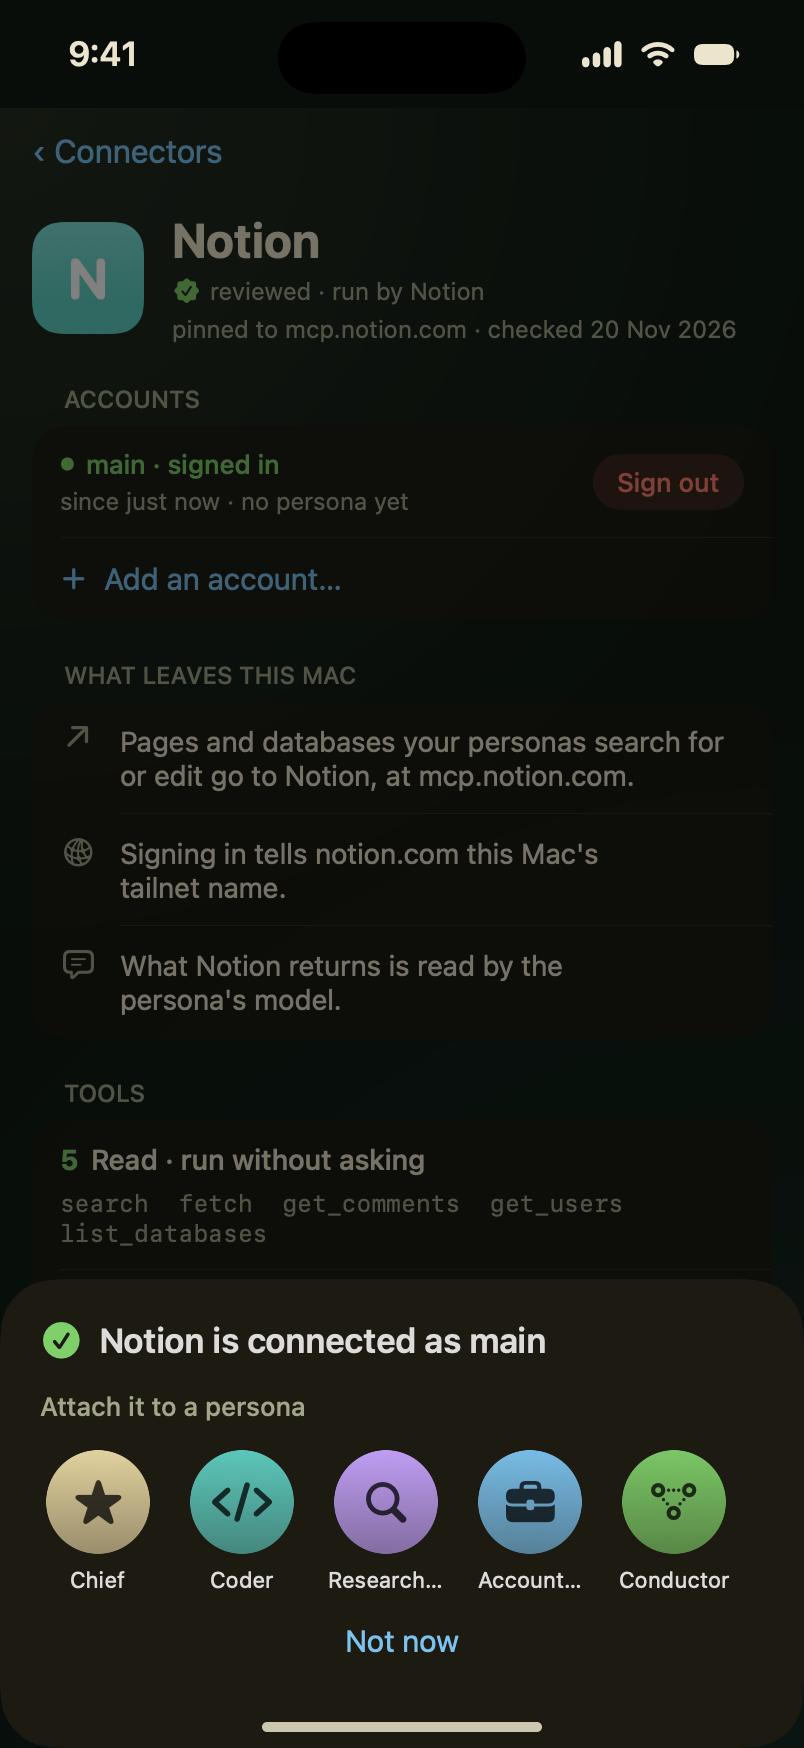
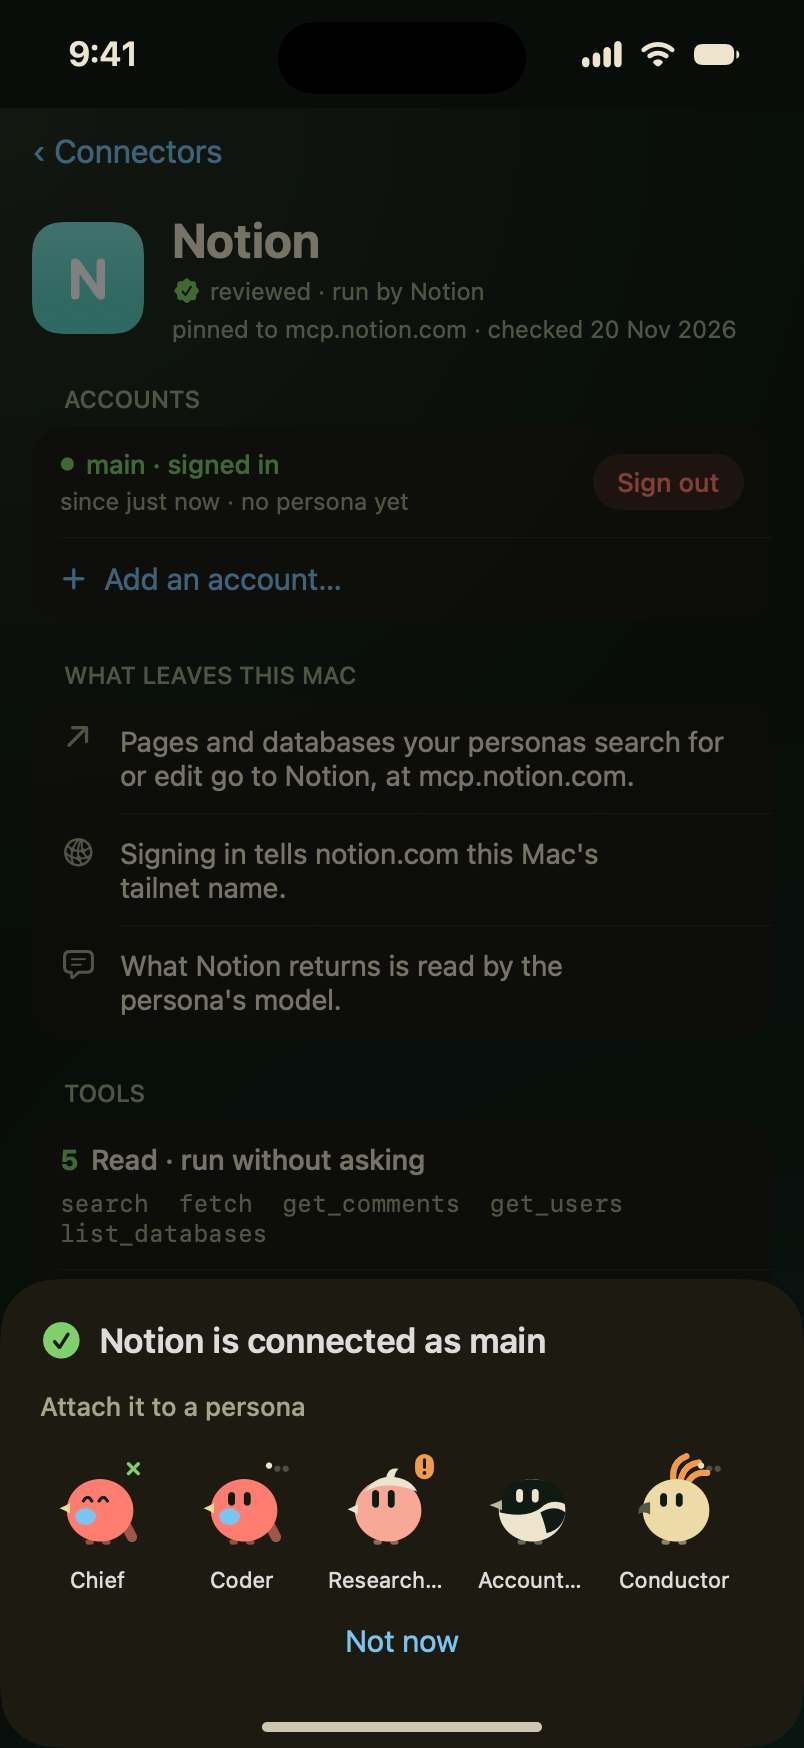
apple: #827 lint fixes (internal doc lines, short names, eye tuple, one text paint) and the agent frames re-recorded with birds

diff --git a/apple/Sources/CooeeUI/BirdCast.swift b/apple/Sources/CooeeUI/BirdCast.swift
@@ -2,10 +2,9 @@ import CooeeCore
 import SwiftUI
 
 extension Bird {
-    private static let pink = Paint.mix(.red, .fg, 0.58)
+    private static let pink = Paint.mix(.red, .paper, 0.58)
     private static let grey = Paint.mix(.mute, .amber, 0.82)
 
-    /// Modern's cast, ported from apple/design/agent-birds/cast.js.
     internal static func of(_ mascot: Mascot) -> Bird { cast[Mascot.allCases.firstIndex(of: mascot) ?? 0] }
 
     private static let cast = [kookaburra, galah, rosella, magpie, fairyWren, cockatoo, lorikeet, frogmouth]
@@ -14,34 +13,35 @@ extension Bird {
         paint: .amber,
         parts: Part.feet(.amber) + [
             .body(.amber), .oval(50, 71, 20, 14, .lead),
-            .shape("M22 48 Q28 26 52 27 Q78 28 84 48 Q70 39 52 39 Q34 39 22 48Z", Paint.amber.shade(0.5)),
-            .shape("M27 51 L2 57 Q14 58 27 56Z", Paint.amber.shade(0.3)),
-            .shape("M27 56 Q14 58 4 58 Q14 62 27 63Z", .lead),
+            .patch("M22 48 Q28 26 52 27 Q78 28 84 48 Q70 39 52 39 Q34 39 22 48Z", Paint.amber.shade(0.5)),
+            .patch("M27 51 L2 57 Q14 58 27 56Z", Paint.amber.shade(0.3)),
+            .patch("M27 56 Q14 58 4 58 Q14 62 27 63Z", .lead),
         ],
-        eyes: (40, 55, 48, 13, 6.6))
+        eyes: Eyes(40, 55, 48, 13, 6.6))
 
     private static let galah = Bird(
         paint: pink,
         parts: Part.feet(pink) + [
             .body(pink),
-            .shape("M30 40 Q40 24 58 26 Q74 28 80 40 Q66 34 52 34 Q40 34 30 40Z", Paint.fg.tint(0.75), edge: true),
-            .shape("M50 27 Q52 16 62 18 Q58 22 58 28Z", Paint.fg.tint(0.75)), .beak(Paint.fg.tint(0.8), 23, 57, 10, 5),
+            .patch("M30 40 Q40 24 58 26 Q74 28 80 40 Q66 34 52 34 Q40 34 30 40Z", Paint.paper.tint(0.75), edge: true),
+            .patch("M50 27 Q52 16 62 18 Q58 22 58 28Z", Paint.paper.tint(0.75)),
+            .beak(Paint.paper.tint(0.8), 23, 57, 10, 5),
         ],
-        eyes: (40, 55, 47, 13, 6.6))
+        eyes: Eyes(40, 55, 47, 13, 6.6))
 
     private static let rosella = Bird(
         paint: .red,
         parts: [.bar(CGRect(x: 72, y: 56, width: 10, height: 34), 5, Paint.red.shade(0.6), turn: -28)]
             + Part.feet(.red) + [.body(.red), .oval(38, 64, 10, 8, .link), .beak(.lead, 23, 56, 10, 5)],
-        eyes: (40, 55, 47, 13, 6.6))
+        eyes: Eyes(40, 55, 47, 13, 6.6))
 
     private static let magpie = Bird(
-        paint: .fg,
+        paint: .paper,
         parts: Part.feet(.mute) + [
-            .body(.fg), .shape("M21 60 Q18 30 50 28 Q80 28 84 52 Q70 46 60 56 Q46 66 21 60Z", .ink),
-            .shape("M60 60 Q74 52 84 60 Q82 76 66 80 Q64 70 60 60Z", .ink), .beak(Paint.mute.tint(0.7), 23, 53, 12, 5),
+            .body(.paper), .patch("M21 60 Q18 30 50 28 Q80 28 84 52 Q70 46 60 56 Q46 66 21 60Z", .ink),
+            .patch("M60 60 Q74 52 84 60 Q82 76 66 80 Q64 70 60 60Z", .ink), .beak(Paint.mute.tint(0.7), 23, 53, 12, 5),
         ],
-        eyes: (40, 55, 44, 13, 6.6), eye: .fg)
+        eyes: Eyes(40, 55, 44, 13, 6.6), eye: .paper)
 
     private static let fairyWren = Bird(
         paint: .link,
@@ -49,27 +49,27 @@ extension Bird {
             + Part.feet(.link, 88, 44, 58) + [
                 .body(.link, 52, 62, 28, 26), .oval(64, 52, 8, 7, Paint.link.tint(0.45)), .beak(.ink, 26, 58, 9, 4),
             ],
-        eyes: (41, 54, 52, 11, 6.6))
+        eyes: Eyes(41, 54, 52, 11, 6.6))
 
     private static let cockatoo = Bird(
         paint: .lead,
         parts: [.stroke("M50 32 Q46 12 62 6 M56 32 Q58 14 74 12 M62 34 Q68 20 82 22", .amber, 6)] + Part.feet(.lead)
-            + [.body(.lead), .shape("M27 50 Q14 52 16 62 Q20 58 27 62Z", Paint.mute.shade(0.45))],
-        eyes: (40, 55, 48, 13, 6.6))
+            + [.body(.lead), .patch("M27 50 Q14 52 16 62 Q20 58 27 62Z", Paint.mute.shade(0.45))],
+        eyes: Eyes(40, 55, 48, 13, 6.6))
 
     private static let lorikeet = Bird(
         paint: .green,
         parts: Part.feet(.green) + [
-            .body(.green), .shape("M22 54 Q20 28 52 28 Q80 28 84 46 Q66 38 52 44 Q36 50 22 54Z", .link),
+            .body(.green), .patch("M22 54 Q20 28 52 28 Q80 28 84 46 Q66 38 52 44 Q36 50 22 54Z", .link),
             .oval(44, 72, 14, 10, .amber), .beak(.red, 24, 57, 10, 5),
         ],
-        eyes: (41, 55, 44, 13, 6.6))
+        eyes: Eyes(41, 55, 44, 13, 6.6))
 
     private static let frogmouth = Bird(
         paint: grey,
         parts: Part.feet(grey, 90) + [
             .body(grey, 52, 57, 30, 34), .stroke("M33 36 Q38 30 46 34 M52 34 Q60 30 66 36", grey.shade(0.55), 3.5),
-            .shape("M22 56 Q16 60 22 64 Q34 66 44 62 Q36 58 22 56Z", grey.shade(0.5)),
+            .patch("M22 56 Q16 60 22 64 Q34 66 44 62 Q36 58 22 56Z", grey.shade(0.5)),
         ],
-        eyes: (39, 57, 44, 6.5, 7.5))
+        eyes: Eyes(39, 57, 44, 6.5, 7.5))
 }

diff --git a/apple/Sources/CooeeUI/Birds.swift b/apple/Sources/CooeeUI/Birds.swift
@@ -1,13 +1,16 @@
 import CooeeCore
 import SwiftUI
 
-/// One flat part of a figure, in its 100 × 100 box (apple/design/agent-birds/cast.js).
 internal enum Part: Sendable {
     case fill(Path, Paint, edge: Bool = false)
     case line(Path, Paint, width: CGFloat)
 
-    internal static func oval(_ x: CGFloat, _ y: CGFloat, _ rx: CGFloat, _ ry: CGFloat, _ paint: Paint) -> Part {
-        .fill(Path(ellipseIn: CGRect(x: x - rx, y: y - ry, width: rx * 2, height: ry * 2)), paint)
+    internal static func oval(
+        _ midX: CGFloat, _ midY: CGFloat, _ halfWide: CGFloat, _ halfHigh: CGFloat, _ paint: Paint
+    ) -> Part {
+        .fill(
+            Path(ellipseIn: CGRect(x: midX - halfWide, y: midY - halfHigh, width: halfWide * 2, height: halfHigh * 2)),
+            paint)
     }
 
     internal static func bar(_ rect: CGRect, _ radius: CGFloat, _ paint: Paint, turn: Double = 0) -> Part {
@@ -17,14 +20,14 @@ internal enum Part: Sendable {
     }
 
     internal static func body(
-        _ paint: Paint, _ x: CGFloat = 52, _ y: CGFloat = 58, _ rx: CGFloat = 32, _ ry: CGFloat = 30
-    )
-        -> Part
-    {
-        .fill(Path(ellipseIn: CGRect(x: x - rx, y: y - ry, width: rx * 2, height: ry * 2)), paint, edge: true)
+        _ paint: Paint, _ midX: CGFloat = 52, _ midY: CGFloat = 58, _ halfWide: CGFloat = 32, _ halfHigh: CGFloat = 30
+    ) -> Part {
+        .fill(
+            Path(ellipseIn: CGRect(x: midX - halfWide, y: midY - halfHigh, width: halfWide * 2, height: halfHigh * 2)),
+            paint, edge: true)
     }
 
-    internal static func shape(_ data: String, _ paint: Paint, edge: Bool = false) -> Part {
+    internal static func patch(_ data: String, _ paint: Paint, edge: Bool = false) -> Part {
         .fill(svg(data), paint, edge: edge)
     }
 
@@ -32,25 +35,29 @@ internal enum Part: Sendable {
         .line(svg(data), paint, width: width)
     }
 
-    internal static func feet(_ paint: Paint, _ y: CGFloat = 88, _ left: CGFloat = 42, _ right: CGFloat = 58) -> [Part]
+    internal static func feet(_ paint: Paint, _ ground: CGFloat = 88, _ left: CGFloat = 42, _ right: CGFloat = 58)
+        -> [Part]
     {
-        [left, right].map { bar(CGRect(x: $0 - 4, y: y - 2, width: 8, height: 5), 2.5, paint.shade(0.55)) }
+        [left, right].map { bar(CGRect(x: $0 - 4, y: ground - 2, width: 8, height: 5), 2.5, paint.shade(0.55)) }
     }
 
-    internal static func beak(_ paint: Paint, _ x: CGFloat, _ y: CGFloat, _ long: CGFloat, _ high: CGFloat) -> Part {
+    internal static func beak(_ paint: Paint, _ rootX: CGFloat, _ rootY: CGFloat, _ long: CGFloat, _ high: CGFloat)
+        -> Part
+    {
         var path = Path()
-        path.move(to: CGPoint(x: x, y: y - high))
-        path.addQuadCurve(to: CGPoint(x: x - long, y: y), control: CGPoint(x: x - long * 0.3, y: y - high * 0.6))
-        path.addQuadCurve(to: CGPoint(x: x, y: y + high), control: CGPoint(x: x - long * 0.3, y: y + high * 0.6))
+        path.move(to: CGPoint(x: rootX, y: rootY - high))
+        path.addQuadCurve(
+            to: CGPoint(x: rootX - long, y: rootY), control: CGPoint(x: rootX - long * 0.3, y: rootY - high * 0.6))
+        path.addQuadCurve(
+            to: CGPoint(x: rootX, y: rootY + high), control: CGPoint(x: rootX - long * 0.3, y: rootY + high * 0.6))
         path.closeSubpath()
         return .fill(path, paint)
     }
 
-    /// An SVG path of absolute `M`, `L`, `Q` and `Z` commands, the only ones the cast uses.
     internal static func svg(_ data: String) -> Path {
         let words = data.map { $0.isLetter ? " \($0) " : String($0) }.joined().split(separator: " ")
         let numbers = words.map { Double($0) ?? 0 }
-        let point = { (at: Int) in CGPoint(x: numbers[at], y: numbers[at + 1]) }
+        let point = { (slot: Int) in CGPoint(x: numbers[slot], y: numbers[slot + 1]) }
         var path = Path()
         var index = 0
         while index < words.count {
@@ -66,10 +73,21 @@ internal enum Part: Sendable {
     }
 }
 
-/// A Modern bird: its parts, then its two pill eyes.
 internal struct Bird: Sendable {
     internal let paint: Paint
     internal let parts: [Part]
-    internal let eyes: (left: CGFloat, right: CGFloat, y: CGFloat, high: CGFloat, wide: CGFloat)
+    internal let eyes: Eyes
     internal var eye = Paint.ink
+}
+
+internal struct Eyes: Sendable {
+    internal let left: CGFloat
+    internal let right: CGFloat
+    internal let level: CGFloat
+    internal let high: CGFloat
+    internal let wide: CGFloat
+
+    internal init(_ left: CGFloat, _ right: CGFloat, _ level: CGFloat, _ high: CGFloat, _ wide: CGFloat) {
+        (self.left, self.right, self.level, self.high, self.wide) = (left, right, level, high, wide)
+    }
 }

diff --git a/apple/Sources/CooeeUI/MascotView.swift b/apple/Sources/CooeeUI/MascotView.swift
@@ -1,7 +1,6 @@
 import CooeeCore
 import SwiftUI
 
-/// A persona's character as Modern draws it: its bird, moving in its state unless motion is off.
 internal struct BirdView: View {
     @Environment(\.look) private var look
     internal let persona: Persona
@@ -22,7 +21,6 @@ internal struct BirdView: View {
     }
 }
 
-/// A persona's character as Terminal draws it: its face in its colour, boxed unless `bare`.
 internal struct FaceView: View {
     @Environment(\.look) private var look
     internal let persona: Persona
@@ -54,7 +52,6 @@ internal struct FaceView: View {
     }
 }
 
-/// Seconds into its loop, out of step with other seeds, while motion is on; nil holds the key pose.
 private struct Clocked<Content: View>: View {
     @Environment(\.look) private var look
     internal let seed: String
@@ -103,31 +100,32 @@ private struct Sketch {
     }
 
     private func eyes(_ context: GraphicsContext, _ stance: Stance, _ state: LaneState) {
-        let (left, right, y, high, wide) = bird.eyes
+        let eyes = bird.eyes
         let ink = GraphicsContext.Shading.color(fills.color(bird.eye))
-        for x in [left, right] {
+        for spot in [eyes.left, eyes.right].map({ CGPoint(x: $0, y: eyes.level) }) {
             switch state {
-            case .done, .merged: context.stroke(Self.happy(x, y), with: ink, style: Self.round(3))
-            case .fail: context.stroke(Self.cross(x, y), with: ink, style: Self.round(3))
+            case .done, .merged: context.stroke(Self.happy(spot), with: ink, style: Self.round(3))
+            case .fail: context.stroke(Self.cross(spot), with: ink, style: Self.round(3))
             default:
-                let tall = high * stance.lid
-                let pill = CGRect(x: x - wide / 2 + stance.glance, y: y - tall / 2, width: wide, height: tall)
-                context.fill(Path(roundedRect: pill, cornerRadius: min(wide, tall) / 2), with: ink)
+                let tall = eyes.high * stance.lid
+                let pill = CGRect(
+                    x: spot.x - eyes.wide / 2 + stance.glance, y: spot.y - tall / 2, width: eyes.wide, height: tall)
+                context.fill(Path(roundedRect: pill, cornerRadius: min(eyes.wide, tall) / 2), with: ink)
             }
         }
     }
 
-    private static func happy(_ x: CGFloat, _ y: CGFloat) -> Path {
+    private static func happy(_ spot: CGPoint) -> Path {
         var path = Path()
-        path.move(to: CGPoint(x: x - 4, y: y + 2))
-        path.addQuadCurve(to: CGPoint(x: x + 4, y: y + 2), control: CGPoint(x: x, y: y - 5))
+        path.move(to: CGPoint(x: spot.x - 4, y: spot.y + 2))
+        path.addQuadCurve(to: CGPoint(x: spot.x + 4, y: spot.y + 2), control: CGPoint(x: spot.x, y: spot.y - 5))
         return path
     }
 
-    private static func cross(_ x: CGFloat, _ y: CGFloat, _ arm: CGFloat = 3.5) -> Path {
+    private static func cross(_ spot: CGPoint, _ arm: CGFloat = 3.5) -> Path {
         var path = Path()
-        path.addLines([CGPoint(x: x - arm, y: y - arm), CGPoint(x: x + arm, y: y + arm)])
-        path.addLines([CGPoint(x: x + arm, y: y - arm), CGPoint(x: x - arm, y: y + arm)])
+        path.addLines([CGPoint(x: spot.x - arm, y: spot.y - arm), CGPoint(x: spot.x + arm, y: spot.y + arm)])
+        path.addLines([CGPoint(x: spot.x + arm, y: spot.y - arm), CGPoint(x: spot.x - arm, y: spot.y + arm)])
         return path
     }
 
@@ -158,7 +156,7 @@ private struct Sketch {
         mark.rotate(by: .degrees(stance.spark.turn))
         mark.scaleBy(x: stance.spark.size, y: stance.spark.size)
         mark.stroke(
-            Self.cross(0, 0, 6 / 2.squareRoot()).applying(CGAffineTransform(rotationAngle: .pi / 4)),
+            Self.cross(.zero, 6 / 2.squareRoot()).applying(CGAffineTransform(rotationAngle: .pi / 4)),
             with: .color(fills.green), style: Self.round(3))
     }
 
@@ -168,7 +166,6 @@ private struct Sketch {
 }
 
 extension Palette {
-    /// A character's paint in this scheme: `fg` and `paper` are its text colour, `ink` its background.
     internal func color(_ paint: Paint) -> Color {
         if case .mix(let first, let second, let share) = paint {
             return color(first).mix(with: color(second), by: 1 - share, in: .device)
@@ -178,6 +175,6 @@ extension Palette {
 
     private static let tokens: [Paint: @Sendable (Palette) -> Color] = [
         .lead: \.lead, .link: \.link, .green: \.green, .amber: \.amber, .red: \.red, .purple: \.purple,
-        .cyan: \.cyan, .fg: \.foreground, .paper: \.foreground, .mute: \.mute, .ink: \.background,
+        .cyan: \.cyan, .paper: \.foreground, .mute: \.mute, .ink: \.background,
     ]
 }

diff --git a/apple/Sources/CooeeUI/BirdMotion.swift b/apple/Sources/CooeeUI/BirdMotion.swift
@@ -1,7 +1,6 @@
 import CooeeCore
-import Foundation
+import SwiftUI
 
-/// Where a bird's moving groups are at one instant of its state's loop (ab.css's keyframes).
 internal struct Stance {
     internal var lean = 0.0
     internal var shift = 0.0
@@ -14,7 +13,6 @@ internal struct Stance {
     internal var pop = 1.0
     internal var spark = (shown: 0.0, size: 0.3, turn: 0.0)
 
-    /// `state`'s key pose with no time, else where it is `time` seconds into its loop.
     internal init(_ state: LaneState, at time: Double?) {
         switch state {
         case .idle: idle(time)
@@ -73,12 +71,11 @@ internal struct Stance {
         tall = Self.track(sigh, [(0, 0.93), (0.5, 0.91), (1, 0.93)])
     }
 
-    /// The value at `time` (in loops) between keys, eased in and out; it holds the last key to the loop's end.
     internal static func track(_ time: Double, _ keys: [(at: Double, value: Double)]) -> Double {
         let unit = time - time.rounded(.down)
         guard let next = keys.firstIndex(where: { $0.at > unit }), next > 0 else { return keys.last?.value ?? 0 }
-        let (from, to) = (keys[next - 1], keys[next])
-        let eased = 0.5 - cos(.pi * (unit - from.at) / (to.at - from.at)) / 2
-        return from.value + (to.value - from.value) * eased
+        let (from, until) = (keys[next - 1], keys[next])
+        let eased = 0.5 - cos(.pi * (unit - from.at) / (until.at - from.at)) / 2
+        return from.value + (until.value - from.value) * eased
     }
 }

diff --git a/apple/Sources/CooeeCore/Mascot.swift b/apple/Sources/CooeeCore/Mascot.swift
@@ -1,6 +1,6 @@
 /// A colour from the scheme: one of its tokens, or a share of one mixed into another.
 public indirect enum Paint: Sendable, Equatable, Hashable {
-    case lead, link, green, amber, red, purple, cyan, fg, mute, ink, paper
+    case lead, link, green, amber, red, purple, cyan, mute, ink, paper
     case mix(Paint, Paint, Double)
 
     /// `self` darkened toward the scheme's ink, keeping `share` of it.
@@ -40,7 +40,7 @@ public enum Mascot: String, CaseIterable, Sendable, Equatable {
         Face(name: "kook", paint: .amber, left: "(", right: ")", eye: "°", mouth: "v"),
         Face(name: "owo", paint: .purple, left: "|", right: "|", eye: "o", mouth: "w"),
         Face(name: "zap", paint: .cyan, left: "<", right: ">", eye: "0", mouth: "_"),
-        Face(name: "tin", paint: .fg, left: "/", right: "\\", eye: "o", mouth: "-"),
+        Face(name: "tin", paint: .paper, left: "/", right: "\\", eye: "o", mouth: "-"),
         Face(name: "bit", paint: .link, left: "[", right: "]", eye: "o", mouth: "_"),
         Face(name: "dj", paint: .lead, left: "d", right: "b", eye: "·", mouth: "_"),
         Face(name: "moss", paint: .green, left: "{", right: "}", eye: "•", mouth: "."),
